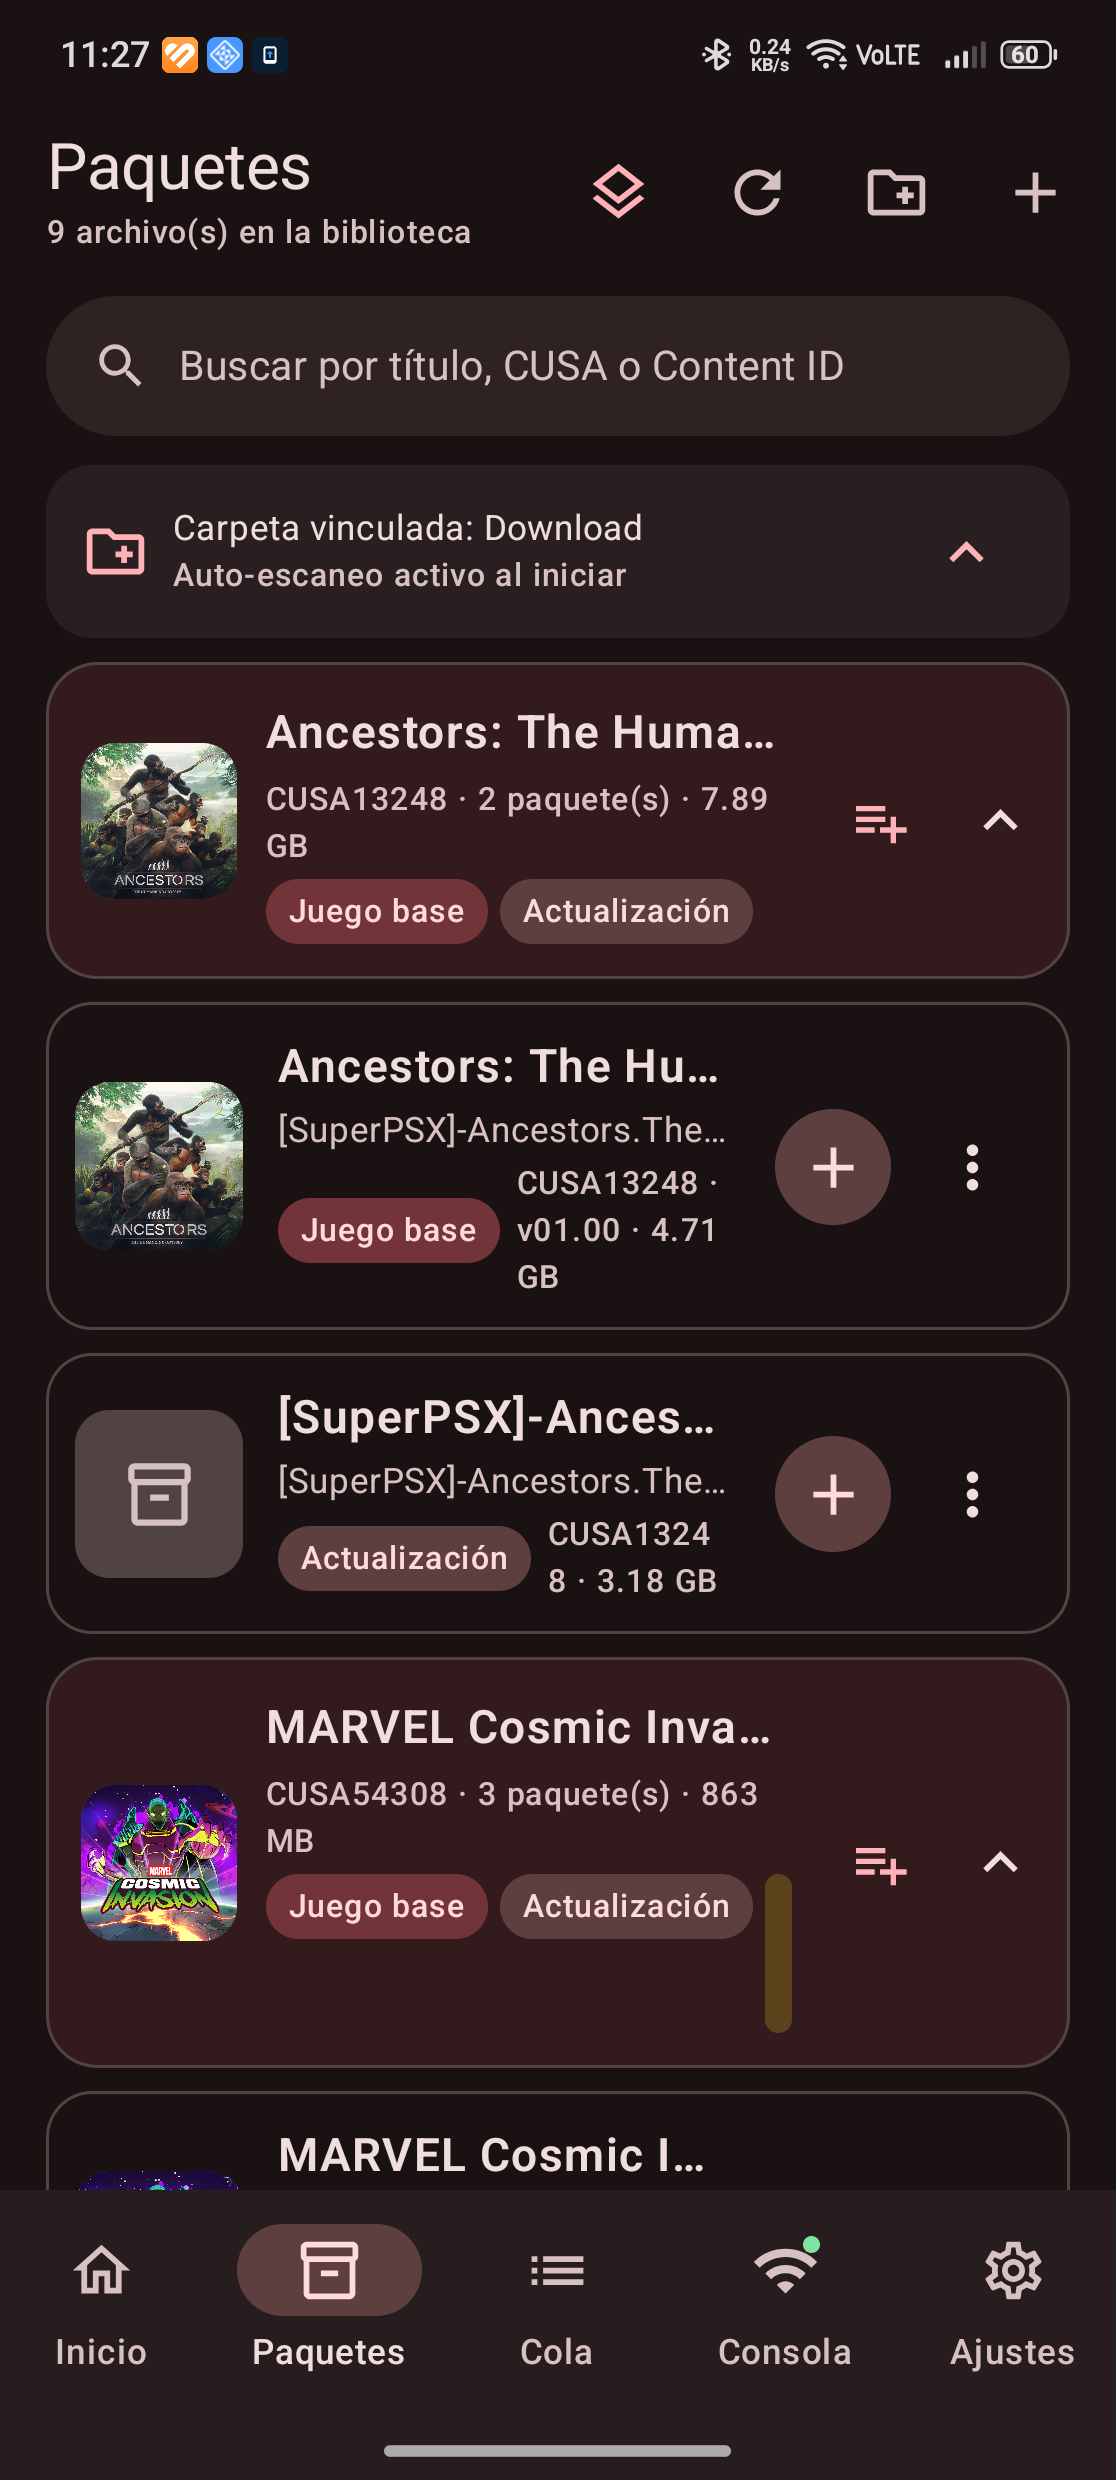
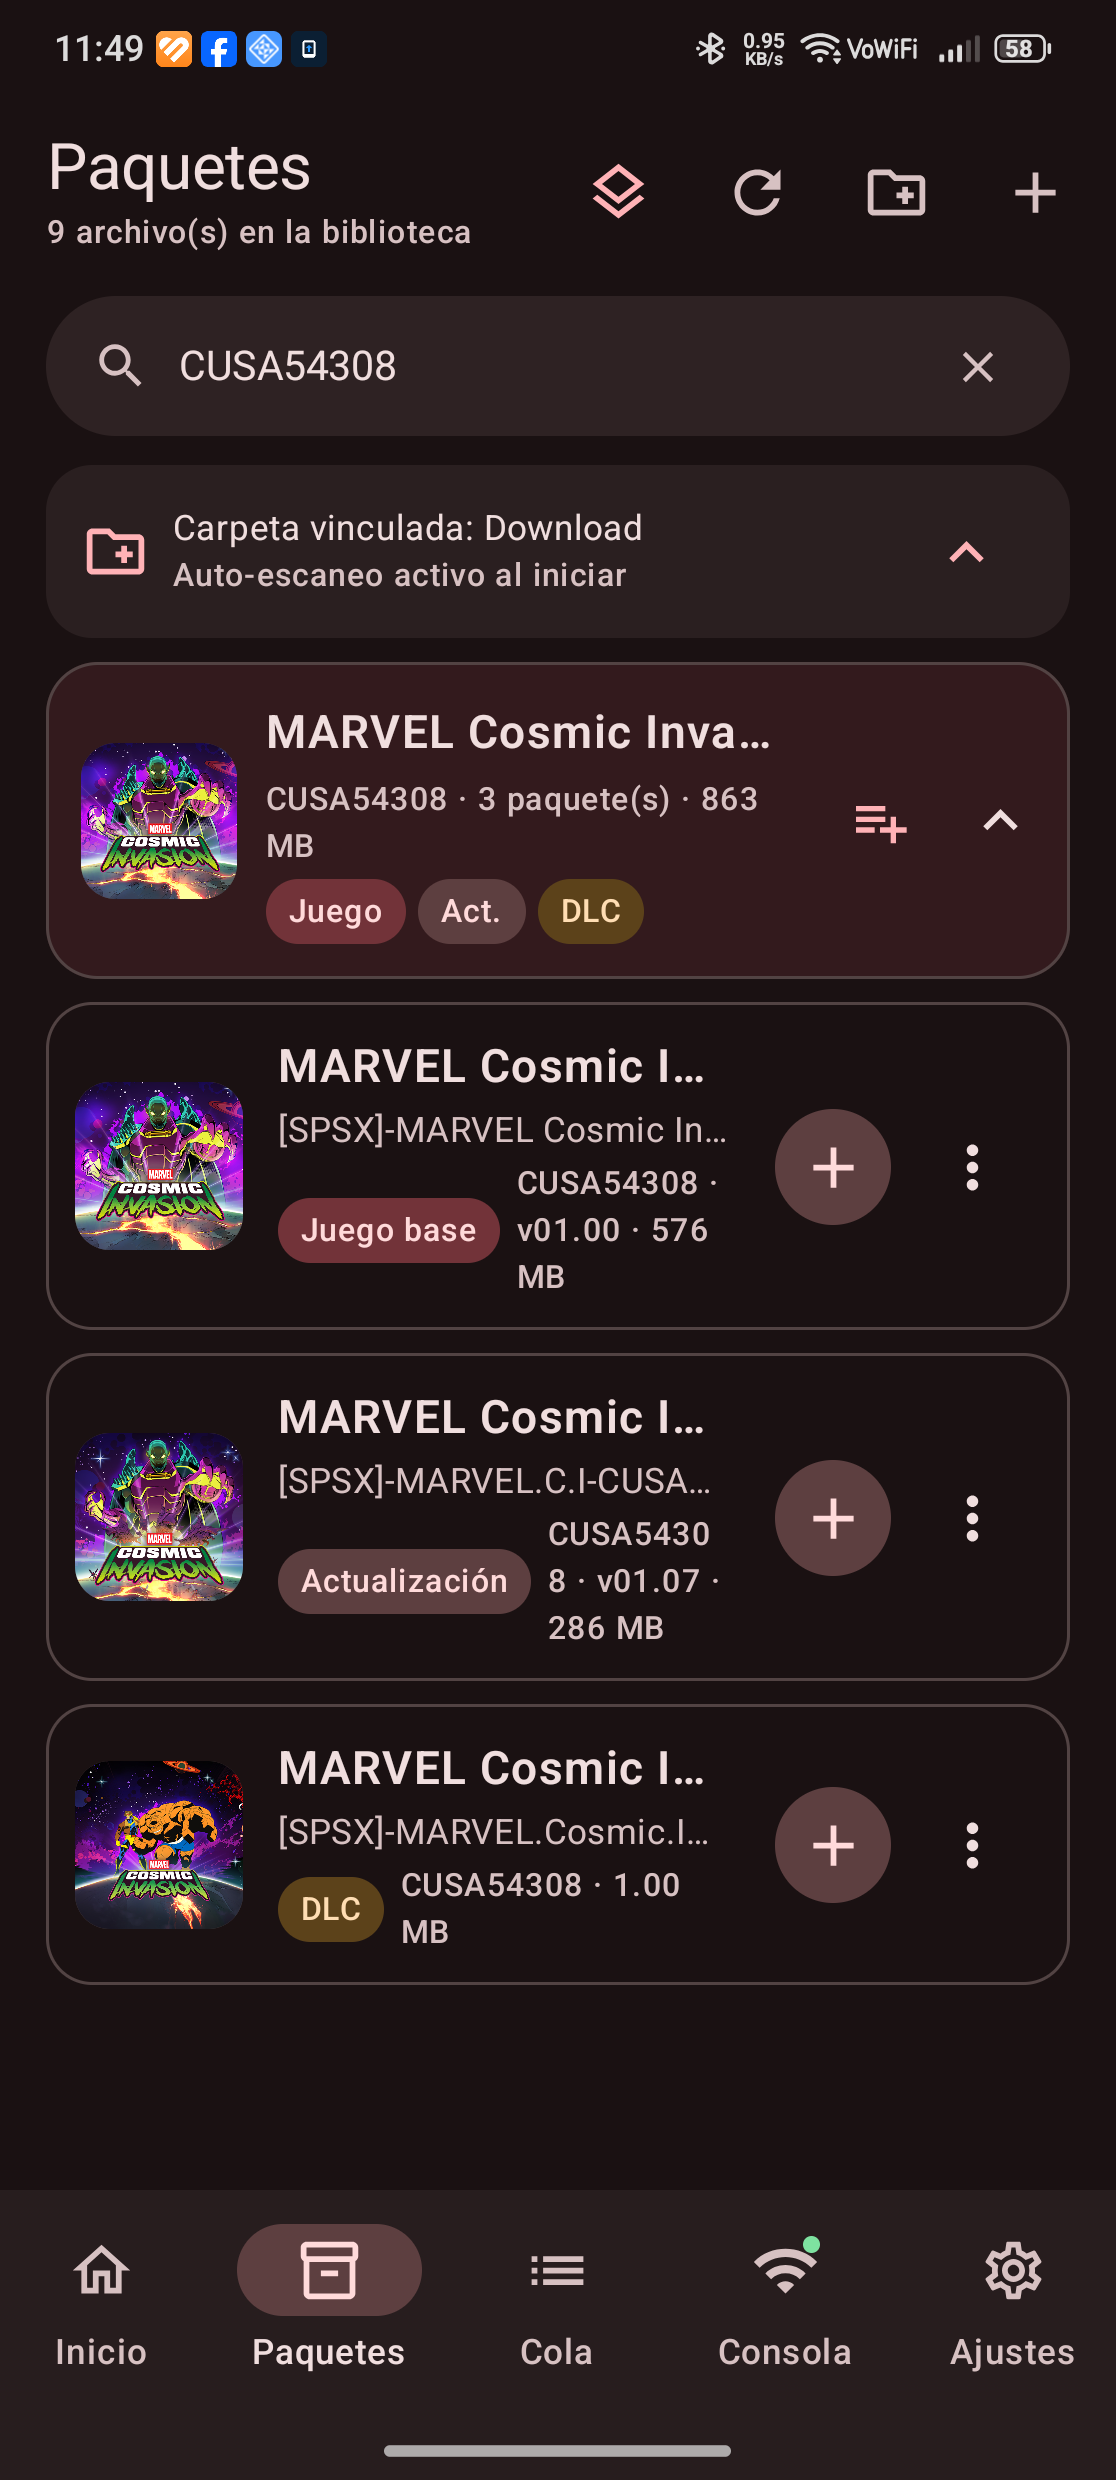
fix(ui): mostrar DLC y categorías compactas en grupos CUSA
Usa FlowRow en el banner CUSA para evitar que el DLC se corte. Muestra Juego/Act./DLC cuando el grupo tiene los tres tipos, mantiene Juego base cuando solo hay base y Juego base/Actualización con dos. Infiere FULLGAME/Game como juego base. Documenta el comportamiento.

Refs: docs/REA_ANALYSIS.md, docs/USER_GUIDE.md, docs/ARCHITECTURE.md. Upstream: https://github.com/Gkiokan/ps4-remote-pkg-sender. Análisis y clon asistidos por DeepSeek v4.1 flash.

diff --git a/app/src/main/java/com/remotesend/app/ui/screens/packages/PackagesScreen.kt b/app/src/main/java/com/remotesend/app/ui/screens/packages/PackagesScreen.kt
@@ -5,6 +5,8 @@ import android.content.ClipboardManager
 import androidx.activity.compose.rememberLauncherForActivityResult
 import androidx.compose.foundation.layout.Arrangement
 import androidx.compose.foundation.layout.Column
+import androidx.compose.foundation.layout.ExperimentalLayoutApi
+import androidx.compose.foundation.layout.FlowRow
 import androidx.compose.foundation.layout.PaddingValues
 import androidx.compose.foundation.layout.Row
 import androidx.compose.foundation.layout.fillMaxSize
@@ -490,6 +492,41 @@ private fun PackageRow(
     }
 }
 
+private data class GroupKindUi(
+    val category: String?,
+    val label: String,
+)
+
+private fun groupKinds(group: PackageGroup): List<GroupKindUi> {
+    val categories = group.packages
+        .map { PkgNaming.effectiveCategory(it.category, it.displayName) }
+        .distinct()
+    val hasBase = categories.any { PkgNaming.isBaseCategory(it) }
+    val hasUpdate = categories.any { PkgNaming.isUpdateCategory(it) }
+    val hasDlc = categories.any { PkgNaming.isDlcCategory(it) }
+    val hasUnknown = categories.any {
+        it == null || (!PkgNaming.isBaseCategory(it) &&
+            !PkgNaming.isUpdateCategory(it) &&
+            !PkgNaming.isDlcCategory(it))
+    }
+    val compact = hasBase && hasUpdate && hasDlc
+    return buildList {
+        if (hasBase) {
+            add(GroupKindUi("gd", if (compact) "Juego" else "Juego base"))
+        }
+        if (hasUpdate) {
+            add(GroupKindUi("gp", if (compact) "Act." else "Actualización"))
+        }
+        if (hasDlc) {
+            add(GroupKindUi("ac", "DLC"))
+        }
+        if (hasUnknown) {
+            add(GroupKindUi(null, "Paquete"))
+        }
+    }
+}
+
+@OptIn(ExperimentalLayoutApi::class)
 @Composable
 private fun PackageGroupHeader(
     group: PackageGroup,
@@ -531,13 +568,14 @@ private fun PackageGroupHeader(
                     style = MaterialTheme.typography.labelSmall,
                     color = MaterialTheme.colorScheme.onSurfaceVariant,
                 )
-                Row(horizontalArrangement = Arrangement.spacedBy(4.dp)) {
-                    group.packages
-                        .map {
-                            PkgNaming.effectiveCategory(it.category, it.displayName)
-                        }
-                        .distinct()
-                        .forEach { category -> PackageKindPill(category) }
+                FlowRow(
+                    modifier = Modifier.fillMaxWidth(),
+                    horizontalArrangement = Arrangement.spacedBy(4.dp),
+                    verticalArrangement = Arrangement.spacedBy(4.dp),
+                ) {
+                    groupKinds(group).forEach { kind ->
+                        PackageKindPill(kind.category, kind.label)
+                    }
                 }
             }
             IconButton(

diff --git a/app/src/main/java/com/remotesend/app/ui/components/Common.kt b/app/src/main/java/com/remotesend/app/ui/components/Common.kt
@@ -295,8 +295,11 @@ fun StatusPill(status: QueueStatus) {
 }
 
 @Composable
-fun PackageKindPill(category: String?) {
-    val label = categoryLabel(category) ?: "Paquete"
+fun PackageKindPill(
+    category: String?,
+    labelOverride: String? = null,
+) {
+    val label = labelOverride ?: categoryLabel(category) ?: "Paquete"
     val colors = when {
         PkgNaming.isBaseCategory(category) ->
             MaterialTheme.colorScheme.primaryContainer to

diff --git a/docs/USER_GUIDE.md b/docs/USER_GUIDE.md
@@ -70,6 +70,9 @@ CUSA29952 · 2 paquete(s) · 2,77 GB
 - **Juego base**: paquete principal.
 - **Actualización**: parche.
 - **DLC**: contenido adicional.
+- Si el grupo tiene los tres tipos, el banner usa etiquetas compactas
+  **Juego / Act. / DLC** para que el DLC siempre sea visible; si solo hay base
+  se muestra **Juego base**, y si hay base + actualización se muestran ambas.
 - El icono de capas de la barra superior activa/desactiva la agrupación.
 - El icono de lote dentro del banner CUSA encola base, actualizaciones y DLC en
   orden.

diff --git a/Changelog.md b/Changelog.md
@@ -53,6 +53,8 @@
 - Contraer/expandir global como icono en la fila de carpeta.
 - Añadir lote como icono dentro del banner CUSA.
 - Inferencia de “FULLGAME/Game” como juego base cuando el SFO no trae categoría.
+- Banner CUSA con etiquetas compactas Juego/Act./DLC y `FlowRow` para evitar que
+  el DLC se corte.
 - Confirmación Material 3 para eliminar de cola o biblioteca.
 - Créditos a DeepSeek v4.1 flash por el análisis REA, ingeniería inversa y
   generación del clon Android.
